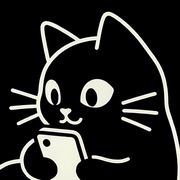
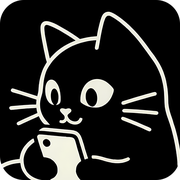
Curseur simple mascotte chat + nouvelle icône du site
Remplace le curseur magnétique (squash/stretch, morph de forme, effet
ovale au survol du texte) par un curseur simple : la mascotte chat suit
le pointeur en douceur, léger agrandissement uniforme au survol des
boutons/logo, rien d'autre.

Régénère favicon-16/32, apple-touch-icon et icon-512 à partir de la
nouvelle icône d'app fournie.

diff --git a/assets/js/cat-cursor.js b/assets/js/cat-cursor.js
@@ -1,0 +1,94 @@
+// Curseur personnalisé — la mascotte chat (assets/img/mascot.webp) suit le
+// pointeur. Version volontairement simple : suivi en douceur (lerp) et
+// léger agrandissement au survol des éléments interactifs marqués
+// data-magnetic, rien d'autre. Une première version portait fidèlement le
+// squash/stretch selon la vitesse + le morphing de forme au survol d'un
+// composant GSAP fourni — jugée trop complexe et donnant un effet "ovale"
+// étrange au contact du texte (le rond s'étirait). Retirée entièrement au
+// profit de ce curseur simple. Desktop uniquement — désactivé sur tactile.
+(function () {
+  var isTouchDevice = 'ontouchstart' in window || navigator.maxTouchPoints > 0;
+  if (isTouchDevice) return;
+
+  var CURSOR_SIZE = 44; // hauteur en px, largeur dérivée du ratio réel de l'image
+  var HOVER_SCALE = 1.25;
+  var LERP_AMOUNT = 0.18;
+
+  var prefersReducedMotion = window.matchMedia('(prefers-reduced-motion: reduce)').matches;
+
+  document.documentElement.style.cursor = 'none';
+
+  var cursor = document.createElement('img');
+  cursor.src = '/assets/img/mascot.webp';
+  cursor.alt = '';
+  cursor.setAttribute('aria-hidden', 'true');
+  cursor.className = 'cat-cursor';
+  cursor.style.position = 'fixed';
+  cursor.style.top = '0';
+  cursor.style.left = '0';
+  cursor.style.height = CURSOR_SIZE + 'px';
+  cursor.style.width = 'auto';
+  cursor.style.zIndex = '9999';
+  cursor.style.pointerEvents = 'none';
+  cursor.style.willChange = 'transform';
+  cursor.style.opacity = '0';
+  // Ombre douce : garde le chat visible même sur les boutons clairs
+  // (fond crème), sans recourir à mix-blend-mode/backdrop-filter.
+  cursor.style.filter = 'drop-shadow(0 2px 6px rgba(0, 0, 0, 0.45))';
+  cursor.style.transitionProperty = 'transform, opacity';
+  cursor.style.transitionDuration = prefersReducedMotion ? '0s' : '0.2s, 0.2s';
+  cursor.style.transitionTimingFunction = 'ease-out';
+  document.body.appendChild(cursor);
+
+  var pos = { x: -100, y: -100 };
+  var target = { x: -100, y: -100 };
+  var isHovering = false;
+
+  function render() {
+    var scale = isHovering ? HOVER_SCALE : 1;
+    cursor.style.transform = 'translate(-50%, -50%) translate(' + pos.x + 'px, ' + pos.y + 'px) scale(' + scale + ')';
+  }
+
+  window.addEventListener(
+    'pointermove',
+    function (e) {
+      pos.x = target.x = e.clientX;
+      pos.y = target.y = e.clientY;
+      cursor.style.opacity = '1';
+      render();
+    },
+    { once: true }
+  );
+
+  window.addEventListener('pointermove', function (e) {
+    target.x = e.clientX;
+    target.y = e.clientY;
+    var inViewport = e.clientX >= 0 && e.clientX <= window.innerWidth && e.clientY >= 0 && e.clientY <= window.innerHeight;
+    cursor.style.opacity = inViewport ? '1' : '0';
+  });
+
+  document.addEventListener('mouseleave', function () {
+    cursor.style.opacity = '0';
+  });
+  document.addEventListener('mouseenter', function () {
+    cursor.style.opacity = '1';
+  });
+
+  function tick() {
+    requestAnimationFrame(tick);
+    var lerp = prefersReducedMotion ? 1 : LERP_AMOUNT;
+    pos.x += (target.x - pos.x) * lerp;
+    pos.y += (target.y - pos.y) * lerp;
+    render();
+  }
+  requestAnimationFrame(tick);
+
+  document.querySelectorAll('[data-magnetic]').forEach(function (el) {
+    el.addEventListener('pointerenter', function () {
+      isHovering = true;
+    });
+    el.addEventListener('pointerleave', function () {
+      isHovering = false;
+    });
+  });
+})();

diff --git a/index.html b/index.html
@@ -286,7 +286,7 @@
 </div>
 
 <script src="/assets/js/gradient-shimmer.js"></script>
-<script src="/assets/js/magnetic-cursor.js"></script>
+<script src="/assets/js/cat-cursor.js"></script>
 <script src="/assets/js/main.js"></script>
 </body>
 </html>
